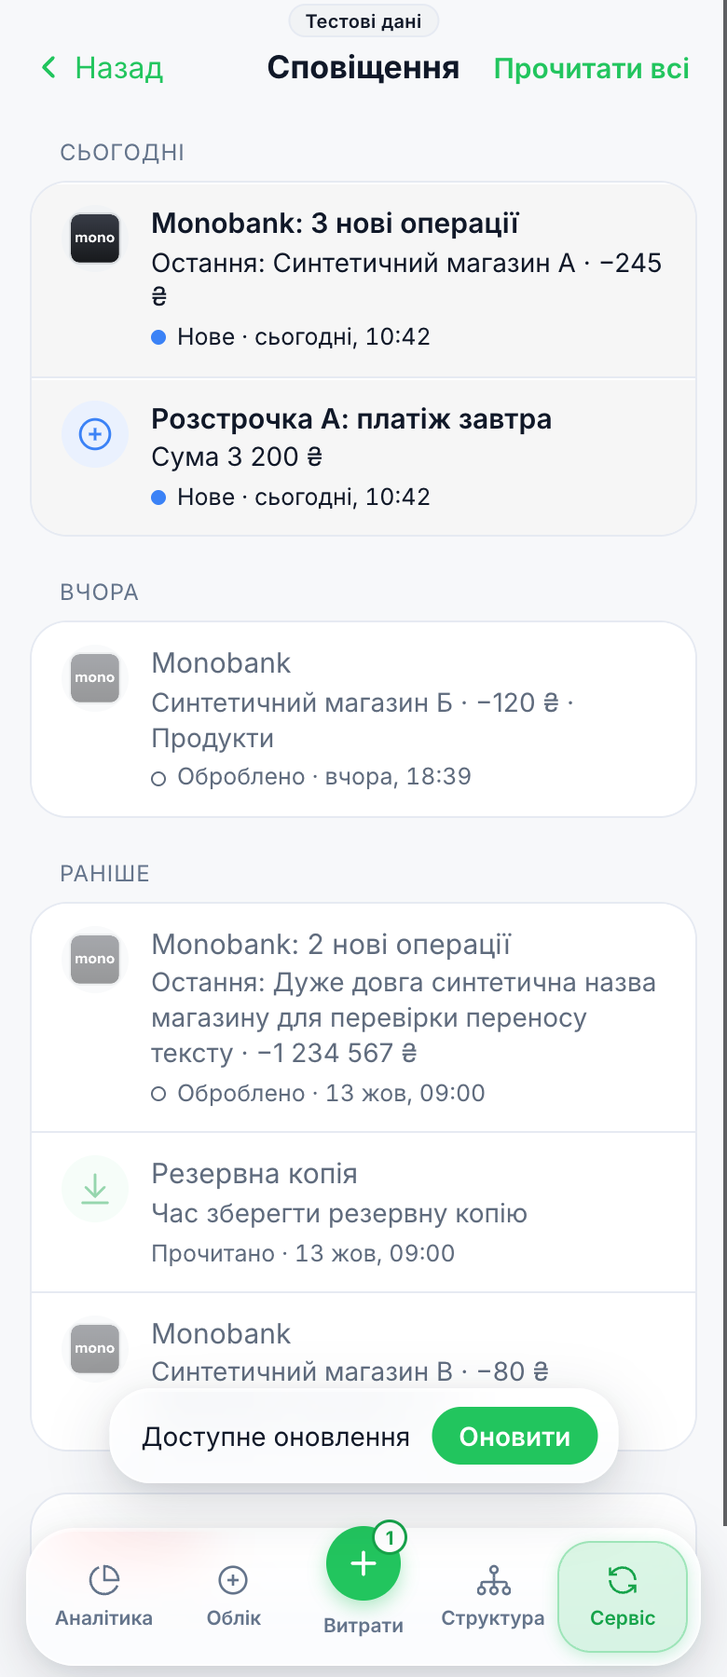
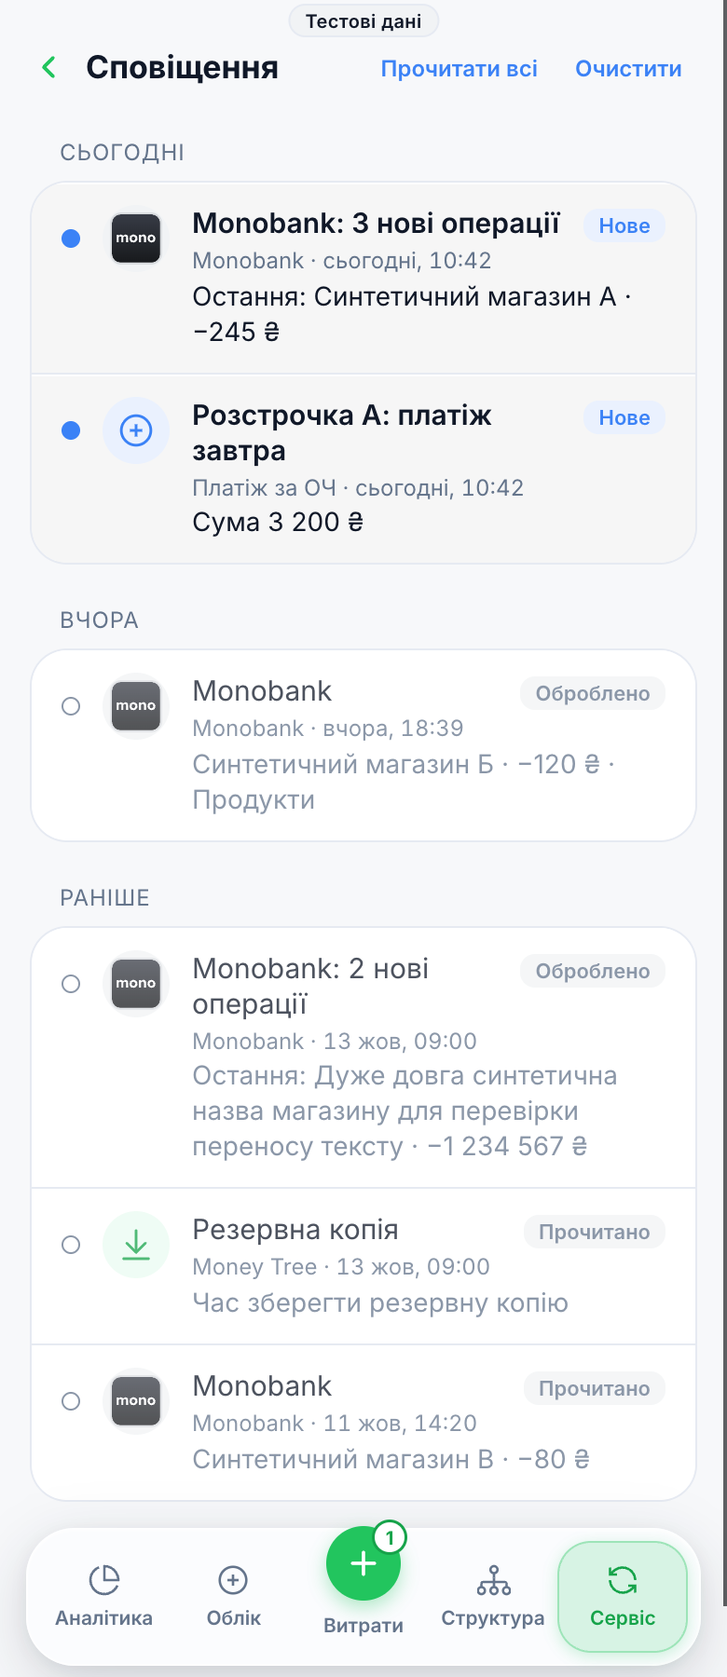
Rev 2.32.98 NOTIF-1 Rev 3 правка за макетом: «Очистити» в шапці, пілюля стану й підпис «джерело · час», шапка на < 360 пт; НЕ ПУШИТИ до результату рев'ю

diff --git a/index.html b/index.html
@@ -1503,7 +1503,6 @@
   .notif-row-main{ min-width:0; flex:1; display:flex; flex-direction:column; gap:2px; }
   .notif-row-title{ font-size:15px; font-weight:400; line-height:1.3; color:var(--notif-muted); }
   .notif-row-text{ font-size:14px; line-height:1.35; color:var(--notif-muted); overflow-wrap:anywhere; }
-  .notif-row .notif-row-icon{ opacity:.45; }
   .notif-row.unread .notif-row-title{ font-weight:600; color:var(--color-text-primary); }
   .notif-row.unread .notif-row-text{ color:var(--color-text-primary); }
   .notif-row.unread .notif-row-icon{ opacity:1; }
@@ -1520,14 +1519,30 @@
   .expense-row.notif-row{ display:flex; align-items:flex-start; gap:12px; border:0; border-left:0; border-radius:0; box-shadow:none; margin:0; padding:12px 16px; background:var(--color-surface); width:100%; box-sizing:border-box; }
   .expense-row.notif-row.unread{ background-image:linear-gradient(var(--notif-unread-bg), var(--notif-unread-bg)); }
   .expense-row.notif-row.is-pressed{ background-color:var(--color-surface-hover); background-image:none; } /* Rev 2.32.97: реакція на натискання (специфічність вища за .expense-row.notif-row) */
-  .notif-row-state{ display:flex; align-items:center; gap:6px; margin-top:2px; font-size:12.5px; line-height:1.3; color:var(--notif-muted); font-variant-numeric:tabular-nums; }
-  .notif-row.unread .notif-row-state{ color:var(--color-text-primary); }
-  .notif-state-dot{ flex:none; width:8px; height:8px; box-sizing:border-box; border-radius:50%; }
-  .notif-state-new .notif-state-dot{ background:var(--color-info); }
-  .notif-state-processed .notif-state-dot{ border:1.5px solid var(--notif-muted); }
   .notif-row-trash{ position:absolute; top:8px; right:8px; width:32px; height:32px; display:flex; align-items:center; justify-content:center; border:0; border-radius:8px; background:var(--color-surface); color:var(--color-error); cursor:pointer; opacity:0; pointer-events:none; }
   .notif-row-trash:focus-visible{ opacity:1; pointer-events:auto; outline:2px solid var(--color-primary); }
   @media (hover:hover) and (pointer:fine){ .notif-row:hover .notif-row-trash{ opacity:1; pointer-events:auto; } }
+  /* Rev 2.32.98 (NOTIF-1 Rev 3, правка за макетом): шапка (стрілка + «Сповіщення» ліворуч, дві дії праворуч, на < 360 pt дії другим рядком під назвою праворуч); рядок: крапка зліва, заголовок і пілюля стану, під ним «джерело · час», тіло; оброблені й прочитані приглушені (≈ 0,75, непрозорість лише на вмісті, щоб кнопка свайпу не просвічувала). */
+  .notif-top{ gap:2px; }
+  .notif-top .mono-back{ padding:0 8px 0 0; }
+  .notif-top .mono-title{ position:static; flex:1; min-width:0; text-align:left; pointer-events:auto; }
+  .notif-archive-top-action{ position:static; height:auto; flex:none; display:flex; align-items:center; gap:4px; }
+  .notif-archive-top-action .notif-readall{ font-size:12px; font-weight:600; color:var(--color-info); padding:0 8px; }
+  @media (max-width:359px){
+    .notif-top{ flex-wrap:wrap; height:auto; min-height:48px; row-gap:0; }
+    .notif-top .mono-title{ flex:1 1 0; }
+    .notif-archive-top-action{ flex-basis:100%; justify-content:flex-end; margin-top:-6px; }
+  }
+  .notif-dot{ flex:none; width:10px; height:10px; box-sizing:border-box; margin-top:13px; border-radius:50%; border:1.5px solid var(--color-text-secondary); background:transparent; }
+  .notif-state-new .notif-dot{ background:var(--color-info); border-color:var(--color-info); }
+  .notif-row-head{ display:flex; align-items:flex-start; gap:8px; }
+  .notif-row-head .notif-row-title{ flex:1; min-width:0; overflow-wrap:anywhere; }
+  .notif-pill{ flex:none; margin-top:2px; padding:2px 8px; border-radius:8px; font-size:11px; font-weight:600; line-height:1.3; background:var(--color-surface-hover); color:var(--color-text-secondary); }
+  .notif-state-new .notif-pill{ background:var(--color-info-bg); color:var(--color-info); }
+  .notif-row-source{ font-size:12px; line-height:1.3; color:var(--color-text-secondary); font-variant-numeric:tabular-nums; }
+  .notif-row:not(.unread) .notif-row-main, .notif-row:not(.unread) .notif-row-icon, .notif-row:not(.unread) .notif-dot{ opacity:.75; }
+  .expense-row.notif-row:not(.unread) .notif-row-title{ color:var(--color-text-primary); }
+  .expense-row.notif-row:not(.unread) .notif-row-text{ color:var(--color-text-secondary); }
   .notif-row-icon.ic-green{ background:var(--color-primary-bg); color:var(--color-primary-hover); }
   .notif-row-icon.ic-blue{ background:var(--color-info-bg); color:var(--color-info); }
   .notif-row-icon.ic-amber{ background:var(--color-warning-bg); color:var(--color-warning-hover); }
@@ -3510,7 +3525,7 @@
     </span>
   </button>
 
-  <div class="version-footer">Money Tree · Rev 2.32.97</div>
+  <div class="version-footer">Money Tree · Rev 2.32.98</div>
 </div>
   </div>
 </div>
@@ -3572,13 +3587,16 @@
 <!-- ================= Архів сповіщень (Rev 2.32.38, B) ================= -->
 <div class="mono-screen hidden" id="notif-archive-screen" role="region" aria-label="Сповіщення" inert>
   <div class="mono-inner">
-    <div class="mono-top">
-      <button type="button" class="mono-back" onclick="closeNotifArchive()" aria-label="Назад">
+    <!-- Rev 2.32.98 (NOTIF-1 Rev 3, правка за макетом): ліворуч стрілка «назад» і назва «Сповіщення», праворуч дві текстові дії («Прочитати всі», «Очистити»); на ширині < 360 pt дії переносяться другим рядком під назвою праворуч. -->
+    <div class="mono-top notif-top">
+      <button type="button" class="mono-back notif-back" onclick="closeNotifArchive()" aria-label="Назад">
         <svg viewBox="0 0 24 24" width="20" height="20" fill="none" stroke="currentColor" stroke-width="2.2" stroke-linecap="round" stroke-linejoin="round" aria-hidden="true"><polyline points="15 18 9 12 15 6"/></svg>
-        <span>Назад</span>
       </button>
-      <div class="mono-title">Сповіщення</div>
-      <div class="notif-archive-top-action"><button type="button" class="notif-readall" id="notif-readall-btn" onclick="markAllNotificationsRead()">Прочитати всі</button></div>
+      <div class="mono-title notif-title">Сповіщення</div>
+      <div class="notif-archive-top-action">
+        <button type="button" class="notif-readall" id="notif-readall-btn" onclick="markAllNotificationsRead()">Прочитати всі</button>
+        <button type="button" class="notif-readall" id="notif-clear-btn" onclick="confirmClearNotifArchive()">Очистити</button>
+      </div>
     </div>
     <div id="notif-archive-body"></div>
   </div>
@@ -7968,7 +7986,7 @@ async function ensureInstallmentFirstMonth(){
    користувача. Версія і тег __budgetBackup потрібні, щоб при відновленні
    відрізнити свій файл від довільного чужого JSON і дати зрозумілу помилку
    замість тихого пошкодження даних. */
-const APP_VERSION = '2.32.97';
+const APP_VERSION = '2.32.98';
 // Rev #27.1 — Stage 5, п.27 (інвентаризація localStorage): НЕ повний список
 // усіх ключів localStorage застосунку. Свідомо (продуктове рішення,
 // підтверджене користувачем) відсутні LS_KEY_DRAFT (чернетка форми "Нова
@@ -18770,7 +18788,7 @@ function pressEndAllTouch(e){
 const BUTTON_VARIANT_MAP = {
   primary: ['submit-btn', 'rce-save', 'dsp-action', 'sync-card-btn', 'trash-restore-btn', 'mono-primary'],
   secondary: ['add-trigger-btn', 'show-journal-link', 'journal-reset-btn', 'rce-cancel', 'diag-issue-ignore', 'installment-pay-btn', 'dbg-rec-btn'],
-  text: ['mono-back', 't-footer-link', 'cdd-delete-link', 'dsp-link', 'auto-hint-edit-btn', 'n-diag-toggle', 'mono-kw-undo', 'struct-delete-row', 'notif-readall', 'bdr-diff-apply', 'journal-empty-reset'],
+  text: ['mono-back', 'notif-back', 't-footer-link', 'cdd-delete-link', 'dsp-link', 'auto-hint-edit-btn', 'n-diag-toggle', 'mono-kw-undo', 'struct-delete-row', 'notif-readall', 'bdr-diff-apply', 'journal-empty-reset'],
   danger: ['danger-outline'],
   icon: ['drawer-close', 'gear-btn', 'notif-bell-btn', 'profile-header-btn', 'update-btn', 'date-nav-btn', 'journal-back-btn', 'journal-search-clear', 'bdr-icon-btn', 'data-status-dot', 'exp-del', 'notif-row-trash'],
   segment: ['struct-tab-btn', 'theme-toggle-btn'],
@@ -21024,6 +21042,7 @@ async function fetchNotifBatches(rows){
     return { batches: groupInboxBatches(r.data), ok: true };
   }catch(e){ return { batches: {}, ok: false }; }
 }
+function notifSourceLabel(type){ return (typeof PUSH_TYPE_LABELS !== 'undefined' && PUSH_TYPE_LABELS.hasOwnProperty(type) && PUSH_TYPE_LABELS[type]) || 'Money Tree'; }
 function notifRowHtml(row){
   const type = row.type || (row.data && row.data.type) || '';
   const st = notifRowState(row, notifArchive.batches, notifArchive.batchesOk);
@@ -21033,15 +21052,18 @@ function notifRowHtml(row){
   return '<div class="expense-row-swipe notif-swipe">' +
     '<div class="expense-row-actions"><button type="button" class="swipe-delete-btn" data-notif-delete="' + id + '" aria-label="Видалити сповіщення">' + trash + '</button></div>' +
     '<div class="expense-row notif-row notif-state-' + st + (st === 'new' ? ' unread' : '') + '" role="button" tabindex="0" data-notif-id="' + id + '">' +
+    '<span class="notif-dot" aria-hidden="true"></span>' +
     '<span class="notif-row-icon ' + icon[0] + '">' + icon[1] + '</span>' +
-    '<span class="notif-row-main"><span class="notif-row-title">' + escapeHtml(row.title || '') + '</span>' + (row.body ? '<span class="notif-row-text">' + escapeHtml(row.body) + '</span>' : '') +
-    '<span class="notif-row-state">' + (st === 'read' ? '' : '<span class="notif-state-dot" aria-hidden="true"></span>') + escapeHtml(NOTIF_STATE_LABEL[st] + ' · ' + notifWhenLabel(row.created_at, new Date())) + '</span></span>' +
+    '<span class="notif-row-main"><span class="notif-row-head"><span class="notif-row-title">' + escapeHtml(row.title || '') + '</span><span class="notif-pill">' + escapeHtml(NOTIF_STATE_LABEL[st]) + '</span></span>' +
+    '<span class="notif-row-source">' + escapeHtml(notifSourceLabel(type) + ' · ' + notifWhenLabel(row.created_at, new Date())) + '</span>' +
+    (row.body ? '<span class="notif-row-text">' + escapeHtml(row.body) + '</span>' : '') + '</span>' +
     '<button type="button" class="notif-row-trash" data-notif-delete="' + id + '" aria-label="Видалити сповіщення">' + trash + '</button></div></div>';
 }
 function renderNotifArchive(){
   const body = document.getElementById('notif-archive-body');
   if(!body) return;
   const ra = document.getElementById('notif-readall-btn'); if(ra) ra.disabled = !notifArchive.unread;
+  const rc = document.getElementById('notif-clear-btn'); if(rc) rc.disabled = !notifArchive.rows.length; // Rev 2.32.98: «Очистити» у шапці
   if(!notifArchive.loaded){ body.innerHTML = '<div class="mono-note">Завантаження…</div>'; return; }
   if(notifArchive.offline && !notifArchive.rows.length){ body.innerHTML = cloudGateNote(notifArchive.gate, 'Архів доступний лише онлайн.', 'Спершу увійдіть у Cloud (іконка профілю).'); return; } // Rev 2.32.89 (SYNCUI-1)
   const parts = [];
@@ -21049,7 +21071,6 @@ function renderNotifArchive(){
   else groupNotificationsByDay(notifArchive.rows, new Date()).forEach(function(g){
     parts.push('<div class="mono-section"><div class="mono-group-label">' + escapeHtml(g.label) + '</div><div class="mono-group">' + g.rows.map(notifRowHtml).join('') + '</div></div>');
   });
-  if(notifArchive.rows.length) parts.push('<div class="mono-section"><div class="mono-group"><button type="button" class="mono-row danger" data-notif-clear="1"><span>Очистити</span></button></div></div>');
   body.innerHTML = parts.join('');
 }
 async function openNotifArchive(){

diff --git a/tests/notif-history.test.js b/tests/notif-history.test.js
@@ -183,7 +183,23 @@ test('охоронні: розмітка рядка (свайп-обгортка
   assert.match(SRC, /role="button" tabindex="0" data-notif-id=/);
   assert.equal((SRC.match(/aria-label="Видалити сповіщення"/g) || []).length, 2);
   assert.match(SRC, /showConfirmModal\('Видалити всі сповіщення\? Це не можна скасувати\.', runClearNotifArchive, 'Видалити'\)/);
+  // Rev 2.32.98: макет: «Очистити» в шапці поруч із «Прочитати всі», пілюля стану поруч із заголовком, підпис «джерело · час»
+  assert.match(SRC, /id="notif-clear-btn" onclick="confirmClearNotifArchive\(\)">Очистити</);
+  assert.ok(!/data-notif-clear="1"><span>Очистити/.test(SRC), 'рядка «Очистити» в кінці списку більше немає');
+  assert.match(SRC, /<span class="notif-pill">' \+ escapeHtml\(NOTIF_STATE_LABEL\[st\]\)/);
+  assert.match(SRC, /<span class="notif-row-source">' \+ escapeHtml\(notifSourceLabel\(type\)/);
+  assert.match(SRC, /@media \(max-width:359px\)\{\s*\.notif-top\{ flex-wrap:wrap;/);
+  assert.match(SRC, /\.notif-row:not\(\.unread\) \.notif-row-main, \.notif-row:not\(\.unread\) \.notif-row-icon, \.notif-row:not\(\.unread\) \.notif-dot\{ opacity:\.75; \}/);
   assert.match(SRC, /monoInbox\.tab = \(opts && opts\.tab\) \|\| 'new'/);
   assert.match(SRC, /data-rec-id="\$\{safeId\(e\.id\)\}"/);
   assert.match(SRC, /rpc\('delete_notification', \{ p_id: row\.id \}\)/);
+});
+
+test('notifSourceLabel: підпис джерела за типом; невідомий тип — Money Tree', function(){
+  const c = buildSandbox({ PUSH_TYPE_LABELS: { 'mono-inbox': 'Monobank', 'installment-deadline': 'Платіж за ОЧ' } }, ['notifSourceLabel']);
+  assert.equal(c.notifSourceLabel('mono-inbox'), 'Monobank');
+  assert.equal(c.notifSourceLabel('installment-deadline'), 'Платіж за ОЧ');
+  assert.equal(c.notifSourceLabel('щось-нове'), 'Money Tree');
+  assert.equal(c.notifSourceLabel(''), 'Money Tree');
+  assert.equal(c.notifSourceLabel('toString'), 'Money Tree');
 });

diff --git a/tests/notif-archive.test.js b/tests/notif-archive.test.js
@@ -97,7 +97,8 @@ test('охоронні: не позначає прочитаним при від
   assert.doesNotMatch(SRC, /from\('user_notifications'\)\.select\('id', \{ count: 'exact', head: true \}\)/);
   assert.ok(SRC.indexOf('id="notif-bell-btn"') < SRC.indexOf('onclick="openSettings()" aria-label="Налаштування"'));
   assert.ok(!/from\('user_notifications'\)\.(insert|update|upsert|delete)/.test(SRC));
-  assert.ok(!/class="notif-row-dot|notif-dot/.test(SRC)); // без крапок
+  // Rev 2.32.98 (NOTIF-1 Rev 3): крапка стану (заповнена «Нове», порожня решта) повернена за макетом; раніше (Rev 2.32.40) була заборона крапок
+  assert.match(SRC, /<span class="notif-dot" aria-hidden="true"><\/span>/);
 });
 test('шапка без круглої іконки оновлення; екрани «Вхідні» й «Сповіщення» під таббаром (z-index < таббара)', function(){
   assert.ok(!/<button[^>]*id="update-btn-top"/.test(SRC));

diff --git a/sw.js b/sw.js
@@ -6,7 +6,7 @@
 //
 // Версію кешу треба піднімати руками при кожному релізі HTML-файлу —
 // інакше стара закешована версія може пережити оновлення на сервері.
-const CACHE_NAME = 'budget-app-v2.32.97';
+const CACHE_NAME = 'budget-app-v2.32.98';
 // Rev 2.6.1 — назви файлів іконок отримали суфікс "-v2" (cache-busting):
 // та сама назва файлу під заміненим вмістом не гарантовано пробивала кеш
 // CDN GitHub Pages / Cache Storage / кеш фавіконок Safari одночасно.

diff --git a/docs/ROADMAP.md b/docs/ROADMAP.md
@@ -13033,3 +13033,10 @@ App-модалки (`show*Modal`: підтвердження видалення,
 - Не виправляв (дрібниці): D9 (`markAll` під час видалення: часткова взаємодія через `busy`), D11 (кнопка-кошик лишається в Tab-порядку на touch з `opacity:0`), D13 (edge-свайп закриття екрана по рядку: випробувати на iPhone), D14 (сповіщення без пари в `mono_inbox` = «Оброблено», рішення чату). D12: на 320 пт заголовок «Сповіщення» перекривається «Прочитати всі» у шапці екрана: шапка не змінювалась у Rev 3 (з Rev 2.32.38), це окрема дрібна задача, на iPhone SE видно.
 - Тести: +3 гонки (відповідь найновішого запиту, видалений рядок не воскресає й атомарність присвоєння, відкат без дубля), переписано 1 (`fetchNotifBatches`), оновлено 1 (`cloud-gate`); усього 1363 (1361 пройшли, 2 відомі todo).
 - Перевірити на iPhone: як у 32.156 + видалення свайпом, поки приходить нове сповіщення (рядок не повертається); натискання на рядок підсвічується.
+
+## 32.158. Rev 2.32.98 — NOTIF-1 Rev 3, правка за макетом: шапка, пілюля стану, «джерело · час», шапка на < 360 пт (клас B; не запушено)
+- Що (за описом макета від чату): «Очистити» перенесено в шапку поруч із «Прочитати всі» (12 px, колір info; рядок у кінці списку прибрано; кнопка вимикається на порожньому списку); ліворуч у шапці стрілка «назад» і «Сповіщення»; **на ширині < 360 пт дії переносяться другим рядком під назвою праворуч** (шапка 48 → 82 пт). Рядок: ліворуч крапка (нове: заповнена info; решта: порожня з рамкою), іконка типу, **заголовок + пілюля стану** («Нове» info, «Оброблено»/«Прочитано» surface-hover/secondary; 11 px, радіус 8), під заголовком «джерело · час» (`notifSourceLabel` за `PUSH_TYPE_LABELS`), потім текст; оброблені й прочитані приглушені 0,75 (на вмісті, не на рядку). Старий підпис стану під текстом і права колонка прибрані.
+- Відхилення: у шапці підпис «Назад» прибрано (лишилась стрілка з `aria-label="Назад"`, edge-свайп закриття без змін), бо за макетом «Сповіщення» стоїть ліворуч і дві дії праворуч не вміщуються разом із підписом; контраст `--color-info` 12 px на світлому фоні нижчий за 4,5:1 (за макетом).
+- Тести: +1 (`notifSourceLabel`) і охоронні (шапка, пілюля, підпис, медіа-правило, приглушення); оновлено 2 (`notif-archive`: крапки повернуто макетом; клас `notif-back` у варіантах кнопок); усього 1364 (1362 пройшли, 2 відомі todo).
+- Перевірено (CDP, 290/320/360/390/440 × темна/світла, синтетичні дані): шапка без накладання, дії в межах екрана (< 360 пт: другим рядком праворуч, ≥ 360: в одному рядку), рядки без виходу за межі, горизонтальної прокрутки немає, реальний свайп 84 пт; скрипт `scripts/notif-history-shots.mjs` оновлено (вимір шапки). Справжній iPhone не перевірявся.
+- Перевірити на iPhone SE (320 пт) і на 390: шапка без накладання; «Очистити» в шапці: «Скасувати» / «Видалити»; пілюлі й підписи.

diff --git a/docs/UI_PATTERNS.md b/docs/UI_PATTERNS.md
@@ -309,3 +309,10 @@ _Виміряно Claude Code в Chrome (CDP), синтетичні дані, б
 - **Висоти** (390 пт): 85 пт (заголовок + 1 рядок тексту + підпис), 104 пт (2 рядки тексту), 122–141 пт (довгий текст у 3–4 рядки); 320 пт: 85–141 пт. Правої колонки з часом більше немає (час у підписі).
 - **Видалення**: свайп (84 pt, червоний `--color-error`, кошик 17 px), кнопка-кошик 32×32 праворуч угорі на десктопі (лише при наведенні `(hover:hover) and (pointer:fine)` або фокусі клавіатурою `:focus-visible`), `aria-label="Видалити сповіщення"`.
 - **Очистити**: рядок у кінці списку «Очистити»; підтвердження «Видалити всі сповіщення? Це не можна скасувати.» з кнопкою «Видалити».
+
+### Журнал сповіщень: правка за макетом (Rev 2.32.98)
+Джерело істини: опис макета від чату (16.10). Скріншоти «після» оновлено: `docs/ui/notif3-after-dark-{290,320,390,440}.png`, `notif3-after-light-{320,390}.png`, `notif3-after-swipe-light-390.png`; перевірка 290/320/360/390/440 × дві теми: `node scripts/notif-history-shots.mjs after` (шапка без накладання, дії в межах екрана, рядки без виходу за межі, свайп 84 pt).
+- **Шапка** (`.notif-top`): ліворуч стрілка «назад» (без підпису «Назад») і «Сповіщення» 17 px (ліворуч), праворуч дві текстові дії 12 px кольору `--color-info`: «Прочитати всі», «Очистити» (в кінці списку рядка «Очистити» більше немає). Висота 48 пт. На ширині **< 360 пт** дії переносяться **другим рядком під назвою праворуч** (висота шапки 82 пт); від 360 пт без змін.
+- **Рядок:** ліворуч крапка 10 px (нове: заповнена `--color-info`; решта: порожня з рамкою 1,5 px), далі іконка типу 36 пт, далі колонка: **заголовок + пілюля стану** («Нове»: фон `--color-info-bg`, текст `--color-info`; «Оброблено»/«Прочитано»: фон `--color-surface-hover`, текст `--color-text-secondary`; 11 px, радіус 8 px, відступи 2/8 px), **під заголовком підпис «джерело · час»** (12 px secondary; джерело з `PUSH_TYPE_LABELS`, невідомий тип — «Money Tree»; приклад «Monobank · сьогодні, 10:42»), далі текст сповіщення. Оброблені й прочитані: непрозорість вмісту (іконка, крапка, колонка) 0,75; фон рядка непрозорий (кнопка свайпу не просвічує).
+- Висоти рядка (390 пт): 83–155 пт залежно від довжини тексту; нових відхилень від структури Rev 2.32.96 (свайп 84 пт, кошик на десктопі) немає.
+- Контраст: `--color-info` 12 px на світлому фоні нижчий за 4,5:1 (за макетом); приглушені рядки при 0,75 також нижчі. Відомий компроміс макета, при скаргах на читабельність — змінити токен/непрозорість.

diff --git a/docs/STATUS.md b/docs/STATUS.md
@@ -41,6 +41,7 @@ _Підтримує Claude Code після кожного Rev. Чат звіря
 - 2.32.95 NOTIF-1 Rev 2 (підсвітка пачки в «Вхідних»; **не запушено**): тап по сповіщенню Monobank (закритий/згорнутий) і з архіву: рядки цієї пачки блимають 3 с; оброблена пачка — нічого. Тап при відкритому застосунку відкладено до запису рекордера.
 - 2.32.96 NOTIF-1 Rev 3 (журнал сповіщень як історія; **не запушено**): стани «Нове/Оброблено/Прочитано»; свайп уліво → «Видалити»; «Прочитати всі»; «Очистити» (підтвердження); тап по обробленому: Журнал / «Додані» / «Пропущені» / «Запис уже недоступний». Порівняти з макетом.
 - 2.32.97 NOTIF-1 Rev 3 доробка (гонки списку, `is-pressed`, матриця; **не запушено**): перевірки як для 2.32.96 + видалення свайпом під час нових сповіщень; на iPhone SE (320 пт) шапка «Сповіщення» / «Прочитати всі» тісна (відомо, окремо).
+- 2.32.98 NOTIF-1 Rev 3 правка за макетом (шапка, пілюля стану, «джерело · час»; **не запушено до результату рев'ю**): iPhone SE (320 пт): шапка без накладання, дії другим рядком під назвою; «Очистити» в шапці; пілюлі «Нове/Оброблено/Прочитано».
 - 2.32.81/2.32.83 ISOL-1 (опубліковано 16.10): «Тестування» без кнопки очищення; звичайна синхронізація як раніше (додати, змінити, видалити, відновити витрату; другий пристрій).
 - 2.32.78 KIT-1: у режимі «Реальні дані · лише перегляд» кнопки Monobank, сповіщень і діагностики показують підказку (лише поза робочим origin).
 - 2.32.82 відкат CARD-1: картка «Найближчі платежі» знову як до CARD-1 (з назвами; на деяких ширинах текст може переноситись, це відомо); Андрій порівнює з макетом адаптивного варіанту.
